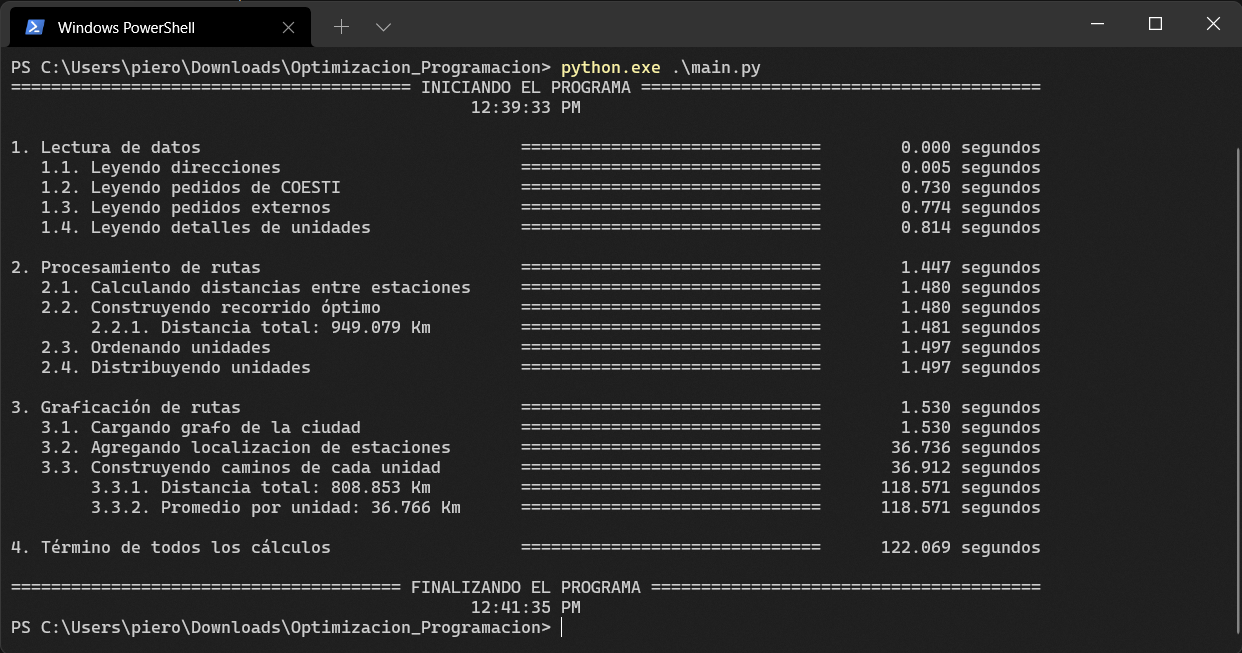
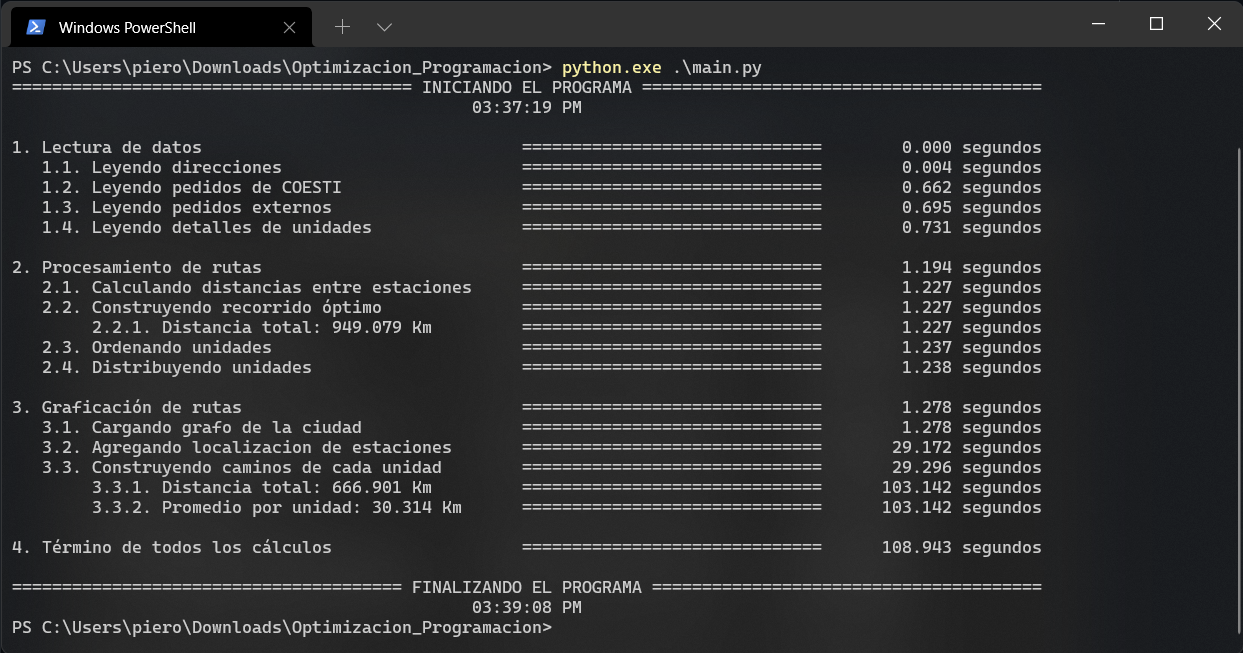
Se agregan datos al README

diff --git a/ProcesamientoRutas.py b/ProcesamientoRutas.py
@@ -120,6 +120,48 @@ class ProcesamientoRutas:
 
         return recorrido, unidades
 
+    def optimizarRutasUnidades(self, recorrido):
+        for i in range(len(recorrido)):
+            if len(recorrido[i]) > 2:
+                recorridoActual = recorrido[i]
+                maximaDistancia = 0
+                indiceMaximo = 0
+                for j in range(len(recorridoActual)):
+                    if j == len(recorridoActual) - 1:
+                        origen = (
+                            self.direcciones[recorridoActual[j]]['Latitud'],
+                            self.direcciones[recorridoActual[j]]['Longitud']
+                        )
+                        destino = (
+                            self.direcciones[recorridoActual[0]]['Latitud'],
+                            self.direcciones[recorridoActual[0]]['Longitud']
+                        )
+                    else:
+                        origen = (
+                            self.direcciones[recorridoActual[j]]['Latitud'],
+                            self.direcciones[recorridoActual[j]]['Longitud']
+                        )
+                        destino = (
+                            self.direcciones[recorridoActual[j + 1]]['Latitud'],
+                            self.direcciones[recorridoActual[j + 1]]['Longitud']
+                        )
+
+                    if geodesic(origen, destino).kilometers > maximaDistancia:
+                        maximaDistancia = geodesic(origen, destino).kilometers
+                        indiceMaximo = j
+
+                if indiceMaximo != (len(recorridoActual) - 1):
+                    nuevoRecorridoActual = []
+                    for j in range(indiceMaximo + 1, len(recorridoActual)):
+                        nuevoRecorridoActual.append(recorridoActual[j])
+
+                    for j in range(indiceMaximo + 1):
+                        nuevoRecorridoActual.append(recorridoActual[j])
+
+                    recorrido[i] = nuevoRecorridoActual
+
+        return recorrido
+
     def calcularRutas(self, separador, inicio):
         estacionesCOESTI = self.dataCOESTI['Centro'].unique().tolist()
         # estacionesExternos = self.dataExternos['Documento comercial'].unique().tolist()
@@ -186,7 +228,7 @@ class ProcesamientoRutas:
         )
 
         # Ordenar las unidades de menor a mayor
-        unidadesOrdenadas = sorted(self.unidades, key=lambda valor: self.unidades[valor]['Capacidad'], reverse=True)
+        unidadesOrdenadas = sorted(self.unidades, key=lambda valor: self.unidades[valor]['Capacidad'], reverse=False)
         unidadesOrdenadasDict = {}
         for unidad in unidadesOrdenadas:
             unidadesOrdenadasDict[unidad] = self.unidades[unidad]
@@ -199,5 +241,6 @@ class ProcesamientoRutas:
         )
 
         recorrido, unidades = self.distribuirUnidades(recorridoGlobal)
+        recorrido = self.optimizarRutasUnidades(recorrido)
 
         return recorrido, unidades

diff --git a/README.md b/README.md
@@ -2,27 +2,73 @@
 Software para la programación de pedidos transportados hacia las estaciones de servicio.
 
 ## Requerimientos del software
-Tener instalado Python 3.8 y ejecutar el siguiente comando en la carpeta del programa.
+Tener instalado Python 3.8 y ejecutar el siguiente comando en la carpeta donde se encuentre el programa.
 ```
 pip install -r requirements.txt
 ```
-
-## Distancias y tiempos obtenidos del algoritmo TSP
-### Usando coordenadas de entrada
-**Distancia total:** 830.414300663492 Km
-
-**Tiempo total:** 114.82 segundos
-
-### Usando distancias de entrada
-**Distancia total:** 808.8525647069278 Km
-
-**Tiempo total:** 111.34 segundos
 
 ## Uso del algoritmo TSP
 Se ha usado el algoritmo TSP incluído en la librería ```mlrose``` para un caso de 44 estaciones COESTI, y se ha
 obtenido la siguiente ruta.
 
 ![](imagenes_mapas/recorrido-TSP.gif)
+
+## Distancias obtenidas del algoritmo TSP (44 estaciones)
+**Distancia total _(con coordenadas)_:** 971.414 Km
+
+**Distancia total _(con distancias)_:** 949.079 Km
+
+## Optimización de recorrido global (44 estaciones)
+Se ha optimizado el recorrido global, eliminando la arista de mayor longitud del recorrido obtenido por TSP,
+obteniendo la siguiente mejora en la distancia del recorrido.
+
+**Distancia sin eliminar arista mayor:** 949.079 Km
+
+**Distancia eliminando arista mayor:** 808.853 Km
+
+## Optimización de recorrido individual de cada unidad (44 estaciones)
+Al igual que en el recorrido global, se ha optimizado la ruta individual de cada unidad, evitando que realice
+recorridos más largos (para unidades que visiten más de dos estaciones), eliminando la arista de mayor longitud.
+Se ha obtenido la siguiente mejora en el recorrido de cada unidad.
+
+### Sin optimización
+**Suma de distancia recorrida por todas las unidades:** 808.853 Km
+
+**Promedio de distancia recorrida por cada unidad:** 36.766 Km
+
+### Con optimización
+**Suma de distancia recorrida por todas las unidades:** 666.901 Km
+
+**Promedio de distancia recorrida por cada unidad:** 30.314 Km
+
+## Ordenamiento de unidades por capacidad
+Para el abastecimiento de todas las estaciones, se ha probado la diferencia entre comenzar asignando las unidades
+de mayor a menor capacidad, o viceversa; obteniendo los siguientes resultados.
+
+### Ordenando de mayor a menor capacidad
+**Unidades utilizadas _(para 44 estaciones)_:** 22 unidades
+
+**Suma de distancia recorrida por todas las unidades:** 666.901 Km
+
+**Promedio de distancia recorrida por cada unidad:** 30.314 Km
+
+![](imagenes_mapas/recorrido-unidades-decreciente.png)
+
+### Ordenando de menor a mayor capacidad
+**Unidades utilizadas _(para 44 estaciones)_:** 35 unidades
+
+**Suma de distancia recorrida por todas las unidades:** 673.977 Km
+
+**Promedio de distancia recorrida por cada unidad:** 19.256 Km
+
+![](imagenes_mapas/recorrido-unidades-creciente.png)
+
+## Ejecución del programa
+Durante la ejecución del programa, se mostrará cada una de las etapas del
+programa, así como también los tiempos de ejecución de cada una de ellas. La manera
+de mostrar las etapas es la siguiente.
+
+![](imagenes_mapas/ejecucion-programa.png)
 
 ## Tipos de mapas
 Las rutas por cada unidad se pueden mostrar en los siguientes tipos de mapas.
@@ -47,10 +93,3 @@ Las rutas por cada unidad se pueden mostrar en los siguientes tipos de mapas.
 
 ### Modelo "satellite-streets"
 ![](imagenes_mapas/rutas-satellite-streets.png "Modelo satellite-streets")
-
-## Ejecución del programa
-Durante la ejecución del programa, se mostrará cada una de las etapas del
-programa, así como también los tiempos de ejecución de cada una de ellas. La manera
-de mostrar las etapas es la siguiente.
-
-![](imagenes_mapas/ejecucion-programa.png)
